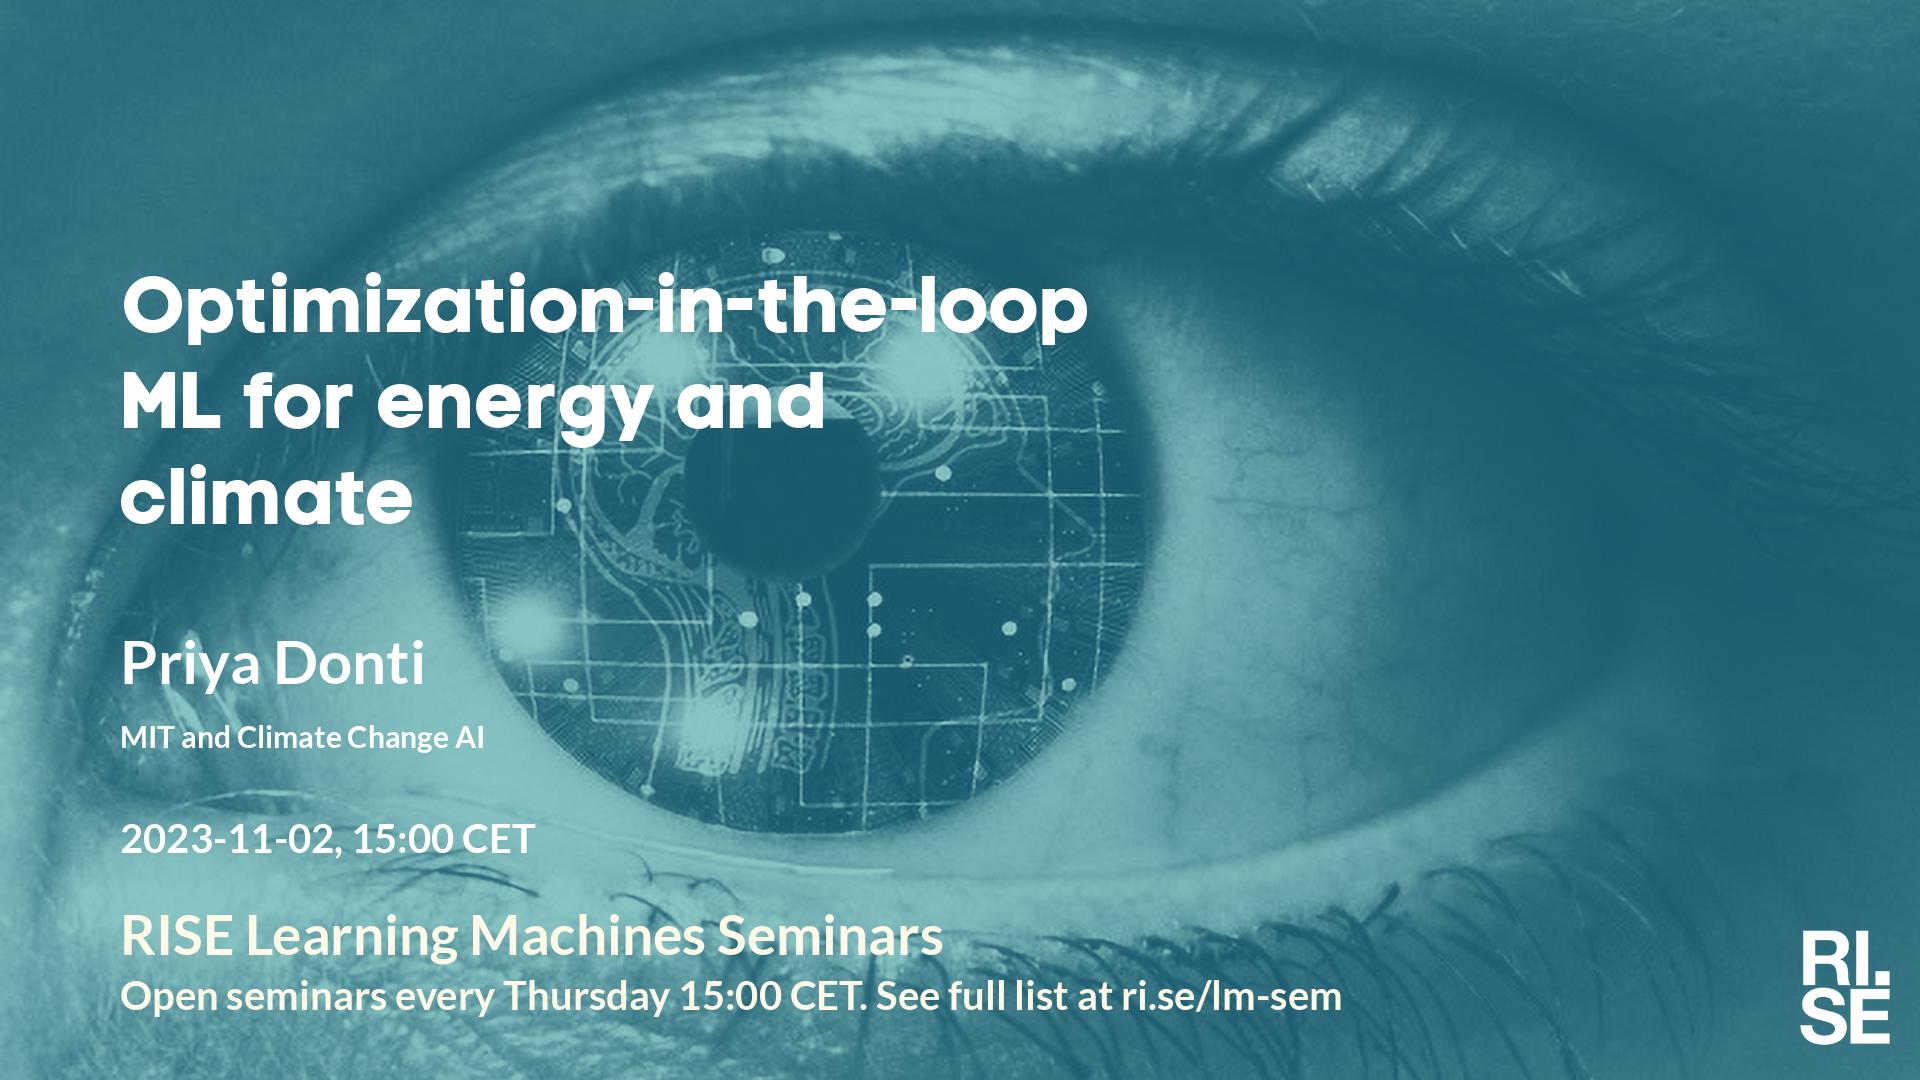
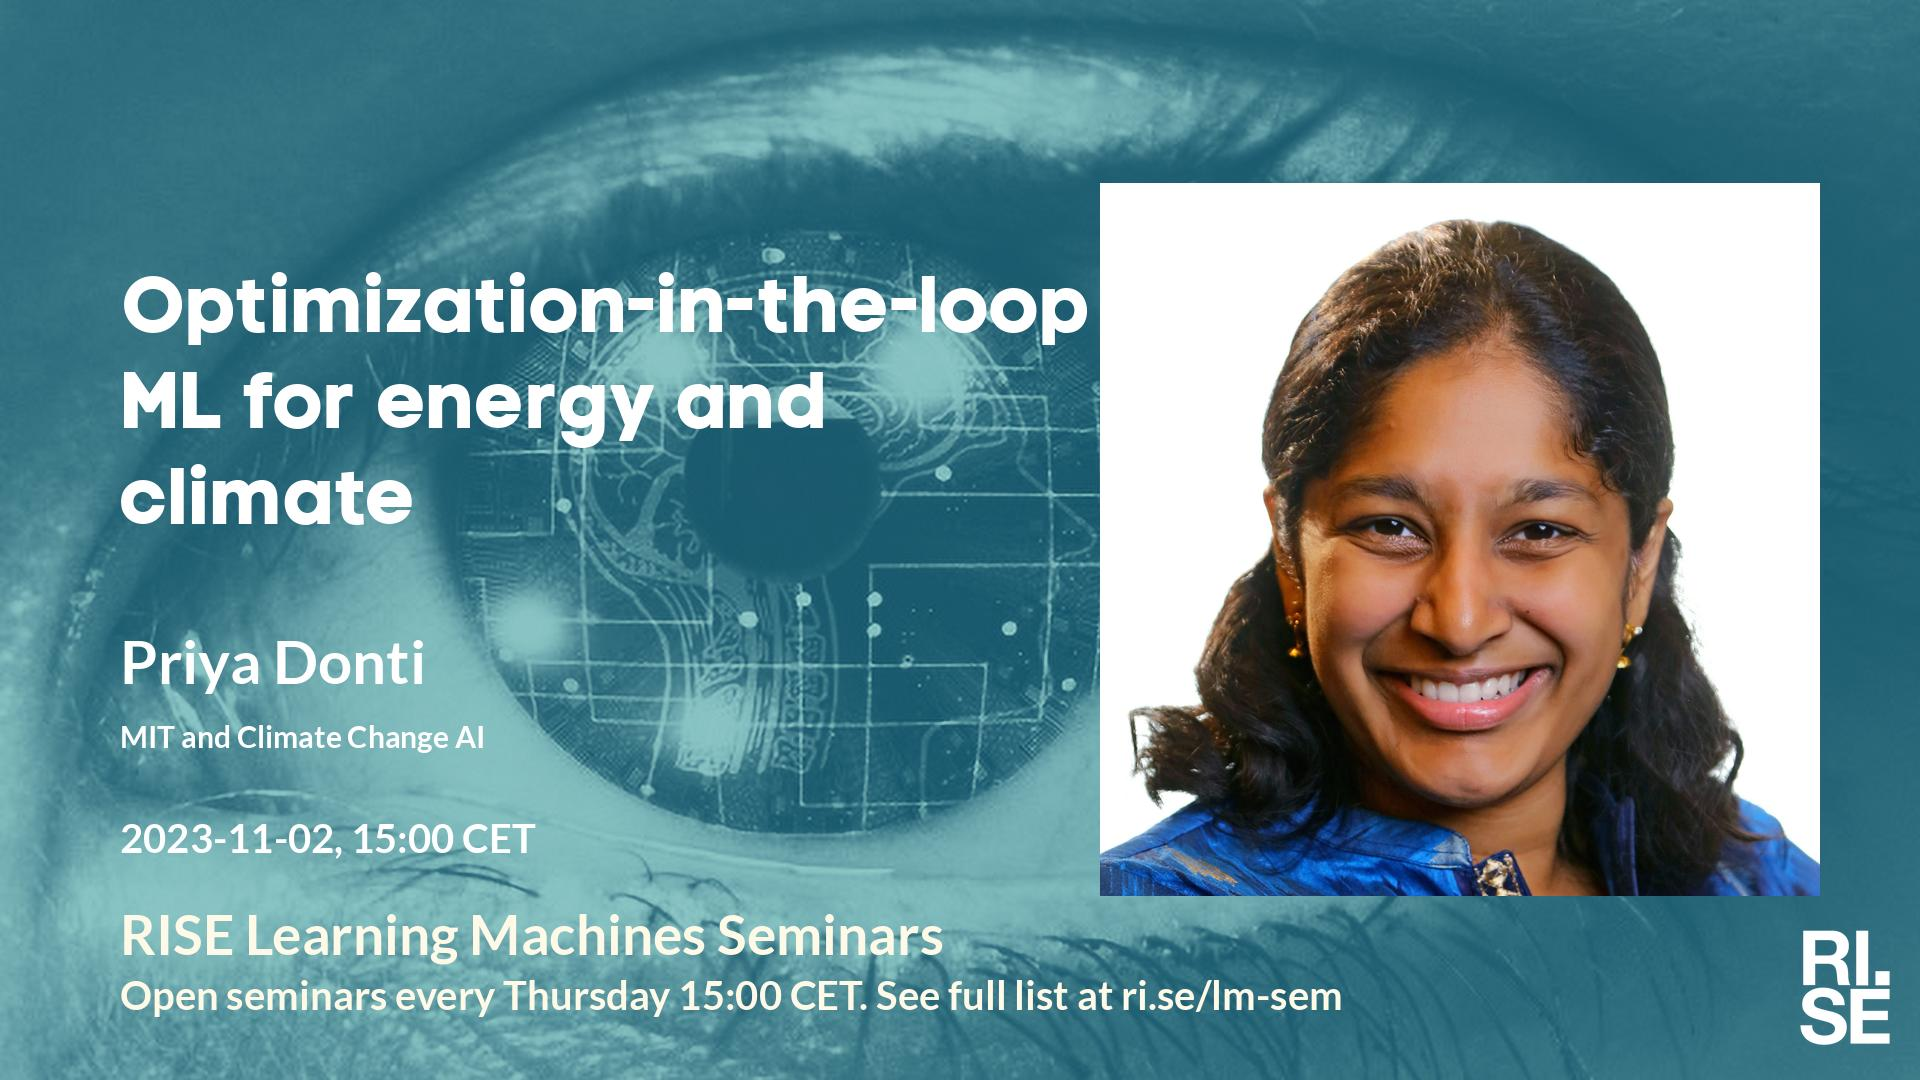
Updated plan on web site.

Changed region(s): [[0.5625, 0.1528, 0.9688, 0.8556]]

diff --git a/lm/index.md b/lm/index.md
@@ -13,7 +13,7 @@ table {border-collapse: collapse;}
 | <span style="color:grey"> 2023-10-12 </span> | <span style="color:grey"> Giulio B. ? </span> | <span style="color:grey">  </span> | <span style="color:grey">  </span> | <span style="color:grey">  </span> | <span style="color:grey">  </span> | <span style="color:grey"> ?~~TABP~~ </span> |
 |  2023-10-19  |  [Valentin De Bortoli, Google Deepmind](2023-10-19.md)  |  [photo](photo-valentin-de-bortoli.jpg)  |  [social media ](social-media-valentin-de-bortoli.jpg)  |  [meeting backdrop ](meeting-backdrop-valentin-de-bortoli.jpg)  |  [youtube thumbnail ](youtube-thumbnail-valentin-de-bortoli.jpg)  |  STABP  |
 | <span style="color:purple"> 2023-10-26 </span> | <span style="color:purple"> *Up for grabs!!!* </span> | <span style="color:purple">  </span> | <span style="color:purple">  </span> | <span style="color:purple">  </span> | <span style="color:purple">  </span> | <span style="color:purple"> ~~STABP~~ </span> |
-|  2023-11-02  |  [Priya Donti, MIT and Climate Change AI](2023-11-02.md)  |    |  [social media ](social-media-priya-donti.jpg)  |  [meeting backdrop ](meeting-backdrop-priya-donti.jpg)  |  [youtube thumbnail ](youtube-thumbnail-priya-donti.jpg)  |  STAB~~P~~  |
+|  2023-11-02  |  [Priya Donti, MIT and Climate Change AI](2023-11-02.md)  |  [photo](photo-priya-donti.jpg)  |  [social media ](social-media-priya-donti.jpg)  |  [meeting backdrop ](meeting-backdrop-priya-donti.jpg)  |  [youtube thumbnail ](youtube-thumbnail-priya-donti.jpg)  |  STABP  |
 |  2023-11-09  |  [Nataša Sladoje, Uppsala University](2023-11-09.md)  |    |  [social media ](social-media-natasa-sladoje.jpg)  |  [meeting backdrop ](meeting-backdrop-natasa-sladoje.jpg)  |  [youtube thumbnail ](youtube-thumbnail-natasa-sladoje.jpg)  |  STAB~~P~~  |
 |  2023-11-16  |  [Jonas Hellgren, RISE](2023-11-16.md)  |    |  [social media ](social-media-jonas-hellgren.jpg)  |  [meeting backdrop ](meeting-backdrop-jonas-hellgren.jpg)  |  [youtube thumbnail ](youtube-thumbnail-jonas-hellgren.jpg)  |  ST~~ABP~~  |
 | <span style="color:red"> 2023-11-23 </span> | <span style="color:red"> Thanksgiving </span> | <span style="color:red">  </span> | <span style="color:red">  </span> | <span style="color:red">  </span> | <span style="color:red">  </span> | <span style="color:red"> CANCELLED </span> |
